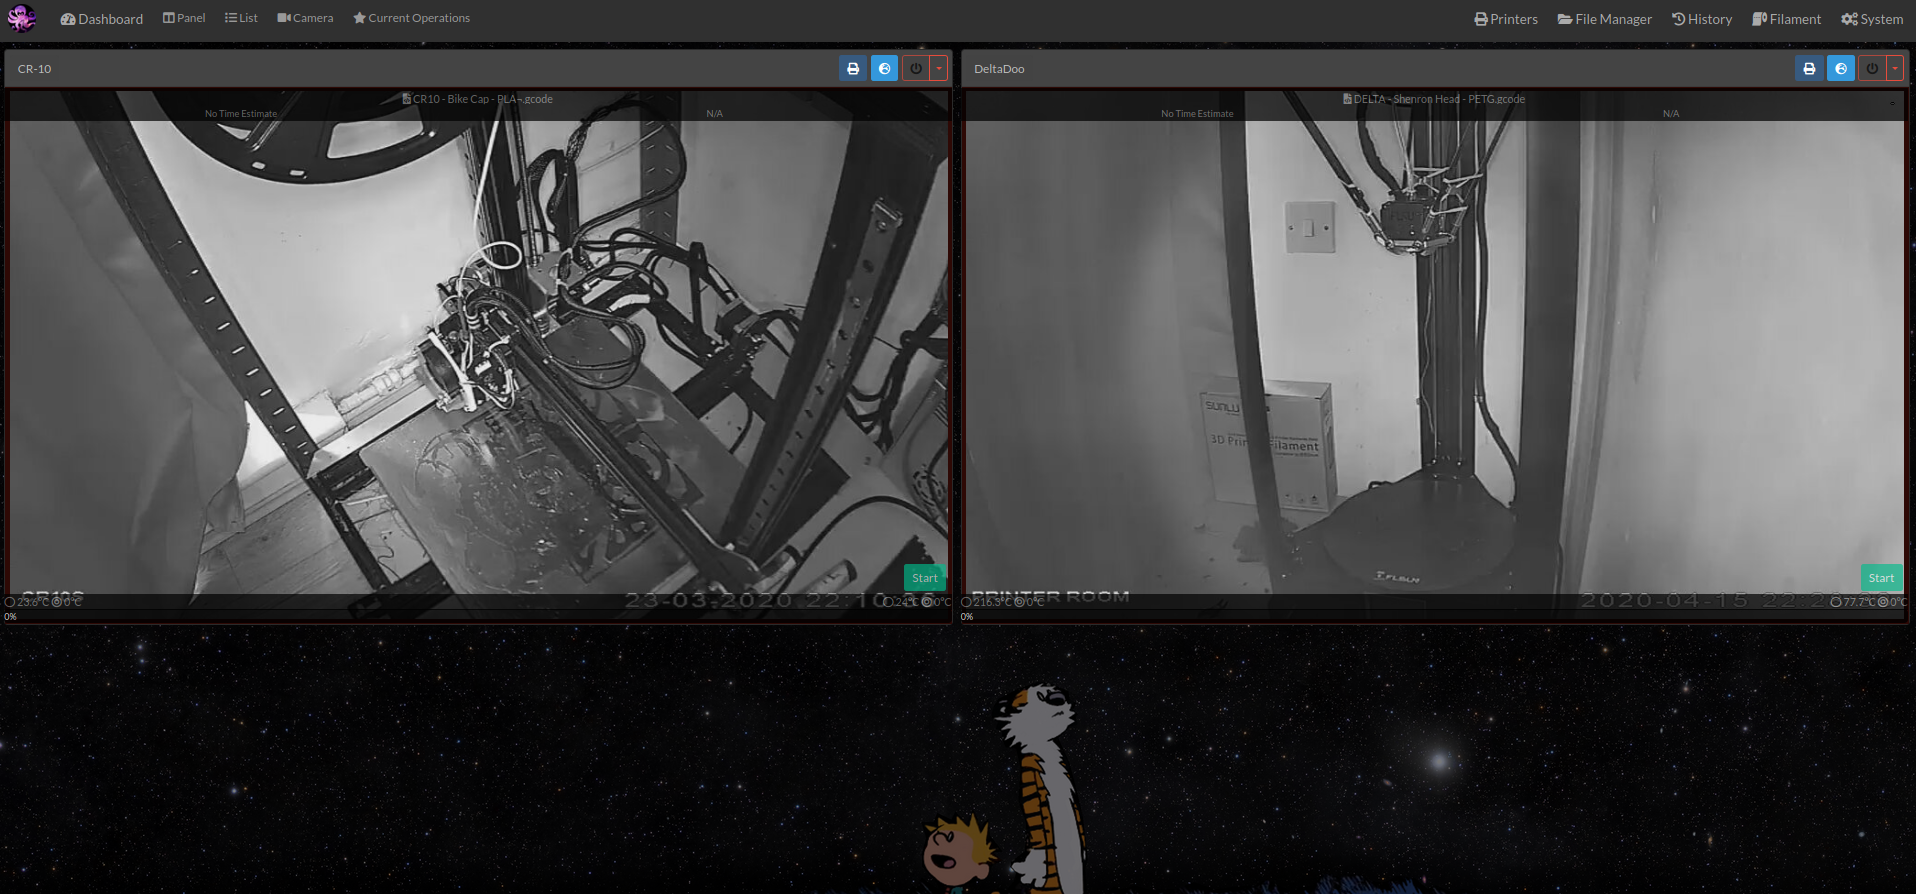
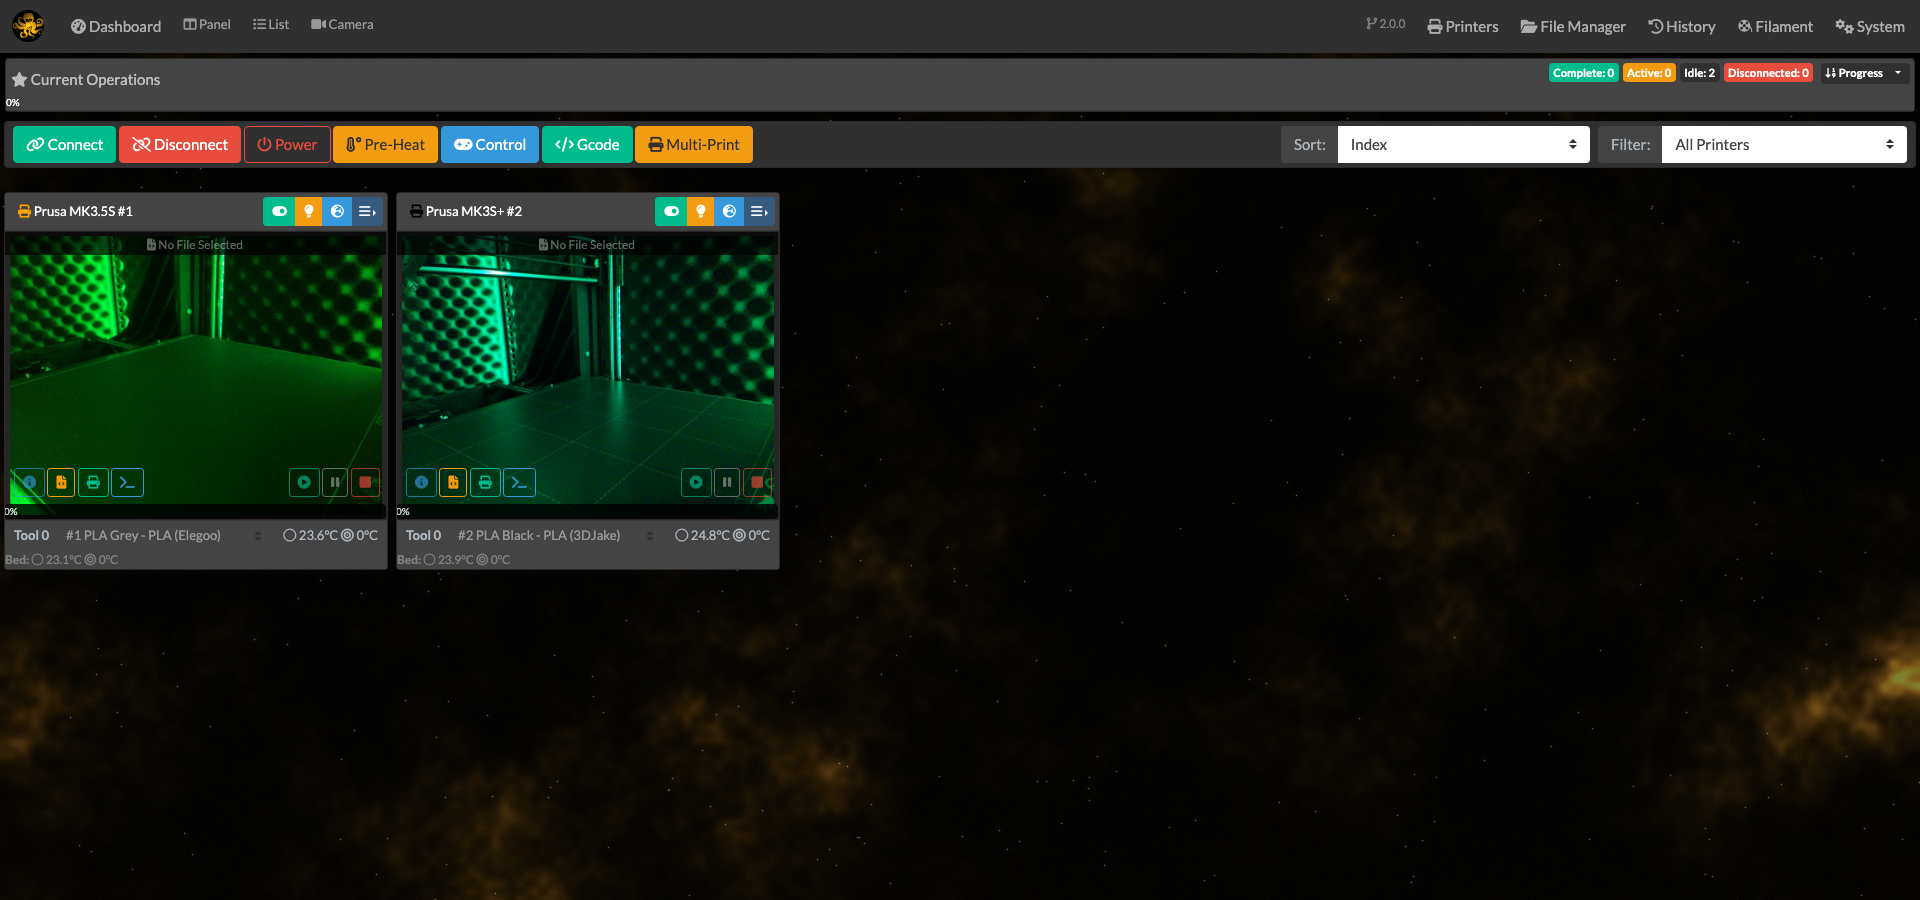
style: refresh the screenshots and drop the purple badge
All eight screenshots are re-shot against the Redux gold-on-black theme
with the nebula background, so the README no longer shows the old
OctoFarm styling. They come from a disposable seeded instance: the
printer names, spools, print history and file names are all synthetic.

Recolour the "based on" badge from purple to the Redux gold, which was
the last purple left in the project.

diff --git a/README.md b/README.md
@@ -1,6 +1,6 @@
 ![Status](https://img.shields.io/badge/status-maintained%20fork-brightgreen)
 ![License](https://img.shields.io/badge/license-AGPL--3.0-blue)
-![Based on](https://img.shields.io/badge/based%20on-OctoFarm-9b59b6)
+![Based on](https://img.shields.io/badge/based%20on-OctoFarm-f39c12)
 
 # OctoFarm-Redux
 
